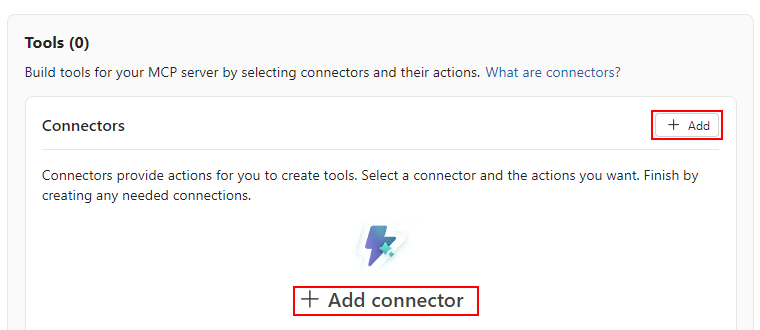
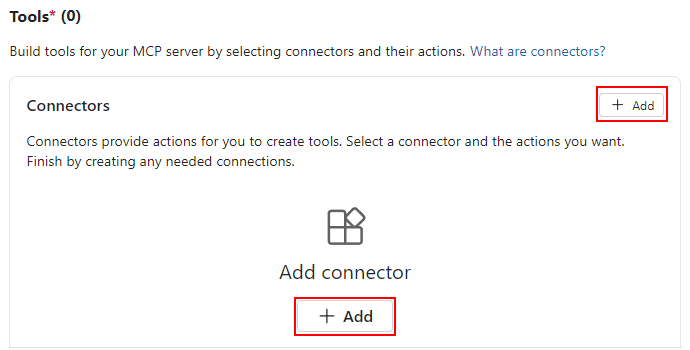
MCP updates

diff --git a/articles/logic-apps/add-agent-tools-mcp-server-connector-actions.md b/articles/logic-apps/add-agent-tools-mcp-server-connector-actions.md
@@ -1,0 +1,154 @@
+---
+title: Add Agent Tools Backed by Connector Actions
+description: Learn to add tools for agents in Microsoft Foundry by creating Model Context Protocol (MCP) servers powered by connector actions in Azure Logic Apps.
+services: logic-apps, azure-ai-foundry
+author: ecfan
+ms.suite: integration
+ms.reviewers: estfan, divswa, azla
+ms.topic: how-to
+ms.collection: ce-skilling-ai-copilot
+ms.date: 11/18/2025
+ms.update-cycle: 180-days
+# Customer intent: As an AI integration developer working in Microsoft Foundry, I want to add agent tools by creating MCP servers powered by workflow connector actions in Azure Logic Apps.
+---
+
+# Add agent tools in Foundry with MCP servers powered by connector actions in Azure Logic Apps (preview)
+
+[!INCLUDE [logic-apps-sku-consumption](includes/logic-apps-sku-consumption.md)]
+
+> [!NOTE]
+>
+> This capability is in preview, might incur charges, and is subject to the
+> [Supplemental Terms of Use for Microsoft Azure Previews](https://azure.microsoft.com/support/legal/preview-supplemental-terms/).
+
+This guide shows how to add tools to your agents in Microsoft Foundry by creating Model Content Protocol (MCP) servers that provide tools powered by Azure Logic Apps. You build these MCP servers and tools by selecting connector actions that run in Azure Logic Apps. These tools let you integrate your agents with specific Microsoft and non-Microsoft services, systems, apps, and data sources - without having to write any code. Tools can include single or multiple actions provided by the connector you choose from supported available connectors.
+
+For more information, see:
+
+- [What is Model Context Protocol](https://modelcontextprotocol.io/docs/getting-started/intro)?
+- [What is Foundry](/azure/ai-foundry/what-is-azure-ai-foundry)?
+- [What is Azure Logic Apps](/azure/logic-apps/logic-apps-overview)?
+
+## Prerequisites
+
+- An Azure account and subscription. [Get a free Azure account](https://azure.microsoft.com/pricing/purchase-options/azure-account?cid=msft_learn).
+
+- The following Foundry assets that you can create with the classic Foundry experience:
+
+  - A [Foundry resource](/azure/ai-services/multi-service-resource?pivots=azportal)
+
+    You need the **Owner** role in your subscription to create this resource.
+
+  - A [Foundry project for your Foundry resource](/azure/ai-foundry/how-to/create-projects?tabs=ai-foundry)
+
+  - An [agent for your project](/azure/ai-foundry/agents/quickstart?context=%2Fazure%2Fai-foundry%2Fcontext%2Fcontext&pivots=ai-foundry-portal)
+  
+  - A [Foundry model deployed for your agent](/azure/ai-foundry/foundry-models/how-to/create-model-deployments?pivots=ai-foundry-portal).
+
+## Limitations and known issues
+
+- Microsoft Foundry
+
+  - The experience to add an agent tool powered by Azure Logic Apps is currently available only in the preview Foundry experience, not in classic Foundry experience.
+
+  - This release supports only managed connectors for Microsoft and non-Microsoft services and products that don't use OAuth 2.0 authentication.
+  
+    [*Managed* connectors](/azure/connectors/managed) are hosted and run on shared clusters in multitenant Azure.
+
+  - After you select a You can't clear connector search filters after you select a filter. To clear the filters, return to the **Tools** page and start over with **Connect your first tool**.
+
+- Azure portal
+
+  - Some connectors that you select might not show any available actions.
+
+  - In the MCP server registration wizard, after you select a connector and the actions you want, you can't change or delete the selected connector to choose a different one.
+
+## 1: Add tools for your agent
+
+Follow these steps to add one or multiple tools for your agent in Microsoft Foundry. These tools are provided by an MCP server that you create.
+
+1. In the classic [Foundry portal](https://ai.azure.com/), open your project, and go to your agent.
+
+1. On the Foundry title bar, select **New Foundry**.
+
+   :::image type="content" source="media/add-agent-tools-mcp-server-connector-actions/new-foundry.png" alt-text="Screenshot shows classic Foundry title bar with unselected New Foundry option." lightbox="media/add-agent-tools-mcp-server-connector-actions/new-foundry.png":::
+
+   The classic Foundry portal changes to the preview Foundry portal.
+
+   :::image type="content" source="media/add-agent-tools-mcp-server-connector-actions/preview-foundry.png" alt-text="Screenshot shows preview Foundry experience." lightbox="media/add-agent-tools-mcp-server-connector-actions/preview-foundry.png":::
+
+1. Under **Your recent work**, select your agent.
+
+   :::image type="content" source="media/add-agent-tools-mcp-server-connector-actions/my-agent.png" alt-text="Screenshot shows Your recent work section with selected agent." lightbox="media/add-agent-tools-mcp-server-connector-actions/my-agent.png":::
+
+1. On the Foundry sidebar, select **Tools**.
+
+   :::image type="content" source="media/add-agent-tools-mcp-server-connector-actions/foundry-sidebar-tools.png" alt-text="Screenshot shows Foundry sidebar with Tools selected." lightbox="media/add-agent-tools-mcp-server-connector-actions/foundry-sidebar-tools.png":::
+
+1. On the **Tools** page, select **Connect a tool**.
+
+1. In the **Select a tool** window, select **Catalog**.
+
+   :::image type="content" source="media/add-agent-tools-mcp-server-connector-actions/select-catalog.png" alt-text="Screenshot shows Select a tool window with Catalog tab selected." lightbox="media/add-agent-tools-mcp-server-connector-actions/select-catalog.png":::
+
+1. On the **Catalog** tab, select **Registry** > **Logic app connectors**.
+
+   :::image type="content" source="media/add-agent-tools-mcp-server-connector-actions/registry-logic-app-connectors.png" alt-text="Screenshot shows Catalog tab with Registry list open and Logic app connectors selected." lightbox="media/add-agent-tools-mcp-server-connector-actions/registry-logic-app-connectors.png":::
+
+1. Select the connector you want by following these steps:
+
+   1. In the search box, enter the name for the connector with the actions you want.
+
+      This example selects the **RSS** connector.
+
+   1. From the results, select the matching connector, then select **Create**.
+
+   For example:
+
+   :::image type="content" source="media/add-agent-tools-mcp-server-connector-actions/select-connector.png" alt-text="Screenshot shows search box with rss entered with RSS connector and Create button selected." lightbox="media/add-agent-tools-mcp-server-connector-actions/select-connector.png":::
+
+   The Azure portal opens and shows the home page for the **Register an MCP server with Azure Logic Apps** wizard.
+
+1. Continue in the Azure portal by using the wizard to create your MCP server and tools.
+
+## 2: Create the MCP server and tools for your agent
+
+You can continue with these steps only after you finish the steps in the preceding section.
+
+1. In the Azure portal, on the **Register an MCP server with Azure Logic Apps** wizard home page, in the **Project details** section, provide the following information:
+
+   | Property | Required | Value | Description |
+   |----------|----------|-------|-------------|
+   | **MCP server name** | Yes | <*mcp-server-name*> | The name to use for the MCP server. |
+   | **Description** | Yes | <*mcp-server-description*> | The description about the MCP server's role, purpose, and tasks that the server can perform. This description helps your agent more accurately identify and choose the appropriate server and tools to use. |
+   | **Logic app** | Yes* | <*Standard-logic-app-resource*> | *This property value depends on whether you have any Standard logic app resources linked to Foundry resources. <br><br>- **None**: The Azure portal creates a Standard logic app for your MCP server to use. <br><br>- **One**: The Azure portal automatically selects this Standard logic app for your MCP server to use. <br><br>- **Multiple**: Open the list, and select a logic app for your MCP server to use. |
+
+1. In the **Tools** section, set up the connection for the connector you chose:
+
+   1. In the **Connectors** section, on the connector row, select the edit button (pencil icon).
+
+   1. On the **Edit connection** pane, follow the prompt, which varies based on the connector, for example:
+
+      1. For connectors that don't require authentication, select **Create new**.
+
+      1. For connectors that require authentication, select **Sign in**.
+
+      For the example RSS connector, you're prompted to select **Create new**.
+
+   After you complete the connection, the **Add actions** pane appears.
+
+1. On the **Add actions** pane, find and select the connector actions to include in your MCP server.
+
+   This example uses the **RSS** connector and the action named **List all RSS feed items**.
+
+1. When you're ready, select **Next**.
+
+1. If the Azure portal prompts you to sign in for authentication, sign in now.
+
+
+
+
+## Related content
+
+- [What is Azure AI Foundry](/ai-foundry/what-is-azure-ai-foundry)?
+- [What is Azure Logic Apps](/azure/logic-apps/logic-apps-overview)?

diff --git a/articles/logic-apps/create-mcp-server-api-center.md b/articles/logic-apps/create-mcp-server-api-center.md
@@ -1,17 +1,17 @@
 ---
-title: Create and register MCP servers
-description: Learn to create and register a Model Context Protocol (MCP) server driven by Azure Logic Apps through API Center. Build tools powered by connector actions for agents and models to use.
+title: Create MCP Servers Based on Workflows
+description: Learn to create and register a Model Context Protocol (MCP) server driven by Azure Logic Apps using API Center. Build tools powered by connector actions for agents and models to use.
 services: logic-apps, azure-api-center
 ms.suite: integration
 ms.reviewers: estfan, azla
 ms.topic: how-to
 ms.collection: ce-skilling-ai-copilot
-ms.date: 09/15/2025
+ms.date: 11/18/2025
 ms.update-cycle: 180-days
-#Customer intent: As an AI developer, I want to create and register an MCP server that provides tools that I build from connector actions in Azure Logic Apps through API Center. AI agents and models can use these tools to complete tasks.
+#Customer intent: As an AI developer working in Azure API Center, I want to create and register an MCP server that provides tools. I can build these tools from connector actions in Azure Logic Apps. AI agents and models can use these tools to complete tasks.
 ---
 
-# Create and register MCP servers in API Center based on Azure Logic Apps (Preview)
+# Create and register MCP servers in API Center based on Azure Logic Apps (preview)
 
 > [!NOTE]
 >
@@ -62,15 +62,13 @@ The following table describes the prerequisites for this guide:
 | Azure account with an active subscription | If you don't have a subscription, [create a free account](https://azure.microsoft.com/pricing/purchase-options/azure-account?cid=msft_learn). <br><br>**Important**: Make sure to use the same Azure subscription for the resources required in this scenario. |
 | An API center resource | For more information, see [Quickstart: Create your API center - portal](../api-center/set-up-api-center.md). |
 | Access to the API Center portal | To find and view the MCP server that you create, you must set up the API Center portal so you have access. <br><br>This portal is an Azure-managed website that developers and other stakeholders in your organization use to discover the APIs in your API center. After you sign in, you can browse and filter APIs and view API details such as API definitions and documentation. User access to API information is based on Microsoft Entra ID and Azure role-based access control. <br><br>For more information, see the following article and sections: <br><br>- [Set up your API Center portal](../api-center/set-up-api-center-portal.md) <br>- [Enable sign-in to portal by Microsoft Entra users and groups](../api-center/set-up-api-center-portal.md#enable-sign-in-to-portal-by-microsoft-entra-users-and-groups) <br>- [Access the API Center portal](../api-center/set-up-api-center-portal.md#access-the-portal) |
-| Empty Standard logic app resource | This logic app doesn't contain any workflows. See [Limitations and known issues](#limitations-and-known-issues). <br><br>- The MCP capability applies to Standard logic app resources that use any hosting option, such as the Workflow Service Plan. <br><br>- Your logic app resource and API center resource must use the same subscription. <br><br>- Your logic app resource must be running. <br><br>For more information, see [Create an example Standard logic app using the Azure portal](create-single-tenant-workflows-azure-portal.md). |
+| A Standard logic app resource | You can use an existing logic app or create one when set up your MCP server. See [Limitations and known issues](#limitations-and-known-issues). <br><br>- The MCP capability applies to Standard logic app resources that use any hosting option, such as the Workflow Service Plan. <br><br>- Your logic app resource and API center resource must use the same subscription. <br><br>- Your logic app resource must be running. <br><br>For more information, see [Create an example Standard logic app using the Azure portal](create-single-tenant-workflows-azure-portal.md). |
 | MCP client to test access to your MCP server | This guide uses [Visual Studio Code](https://code.visualstudio.com/download). <br><br>**Important**: Make sure to use the latest version of Visual Studio Code for MCP server testing. Visual Studio Code includes generally available MCP support in versions after 1.102. For more information, see [MCP servers in Visual Studio Code](https://code.visualstudio.com/docs/copilot/chat/mcp-servers). <br><br>For the example in this guide, you also need the [GitHub Copilot extension](https://marketplace.visualstudio.com/items?itemName=GitHub.copilot). For more information, see the following articles: <br><br>- [Use extensions in Visual Studio Code](https://code.visualstudio.com/docs/getstarted/extensions) <br>- [Set up Copilot in Visual Studio Code](https://code.visualstudio.com/docs/copilot/setup#_set-up-copilot-in-vs-code) <br>- [Get started with GitHub Copilot in Visual Studio Code](https://code.visualstudio.com/docs/copilot/getting-started) |
 | Access to the service, system, app, or data source from which to create your MCP server | You need any required credentials for the resource that you use to create the MCP server and tools. <br><br>The example in this guide uses the **Office 365 Outlook** connector. If you don't have a work or school account, you can use the **Outlook.com** connector or another supported email connector. The general steps are the same, but your UX might slightly differ. |
 
 ## Limitations and known issues
 
 For this release, the following list describes restrictions or issues that apply:
-
-- You must currently start with an empty Standard logic app resource to create your MCP server resource.
 
 - You can select only one connector for your MCP server.
 
@@ -90,13 +88,19 @@ For example, suppose you want to create an MCP server with tools that manage con
 
    :::image type="content" source="media/create-mcp-server-api-center/register-mcp-server.png" alt-text="Screenshot shows Azure portal, selected API Center, and selected Register button on Azure Logic Apps tile." lightbox="media/create-mcp-server-api-center/register-mcp-server.png":::
 
-1. On the **Model Context Protocol servers** page, follow these steps:
+1. On the **Register an MCP server with Azure Logic Apps** wizard home page, follow these steps:
 
-   1. Under **Resources**, from the **Logic app** list, select your empty Standard logic app resource.
+   1. In the **Project details** section, provide the following information about your MCP server:
 
-      :::image type="content" source="media/create-mcp-server-api-center/select-empty-logic-app.png" alt-text="Screenshot shows Model Context Protocol servers page with selected empty Standard logic app." lightbox="media/create-mcp-server-api-center/select-empty-logic-app.png":::
+      | Property | Required | Value | Description |
+      |----------|----------|-------|-------------|
+      | **MCP server name** | Yes | <*mcp-server-name*> | The name to use for the MCP server. |
+      | **Description** | Yes | <*mcp-server-description*> | The description about the MCP server's role, purpose, and tasks that the server can perform. This description helps agents and models more accurately identify and choose the appropriate server and tools to use. |
+      | **Logic app** | Yes | <*Standard-logic-app-resource*> | From the list, select an existing Standard logic app to use, or to create a new one, select **Create a logic app**. |
 
-   1. Under **Tools**, in the **Connectors** section, select **Add connector** or **Add**.
+      :::image type="content" source="media/create-mcp-server-api-center/mcp-information.png" alt-text="Screenshot shows MCP wizard and Project details section." lightbox="media/create-mcp-server-api-center/mcp-information.png":::
+
+   1. In the **Tools** section, under **Connectors*, select **Add connector** or **Add**.
 
       :::image type="content" source="media/create-mcp-server-api-center/add-connector.png" alt-text="Screenshot shows Connections section with selected options for Add and Add connector." lightbox="media/create-mcp-server-api-center/add-connector.png":::
 
@@ -114,7 +118,7 @@ For example, suppose you want to create an MCP server with tools that manage con
 
       If you must create a different connection, select **Add new**.
 
-   1. When you're done, select **Save**, which returns you to the **Model Context Protocol servers** page.
+   1. When you're done, select **Save**, which returns you to the **Register an MCP Server with Azure Logic Apps** page.
 
       The **Connectors** section now shows your selected connector. The **Actions** section shows the selected actions that power the tools that your MCP server provides. By default, any parameters for these actions use an LLM as the input source. You can change this input source to user-provided, based on your scenario's needs.
 
